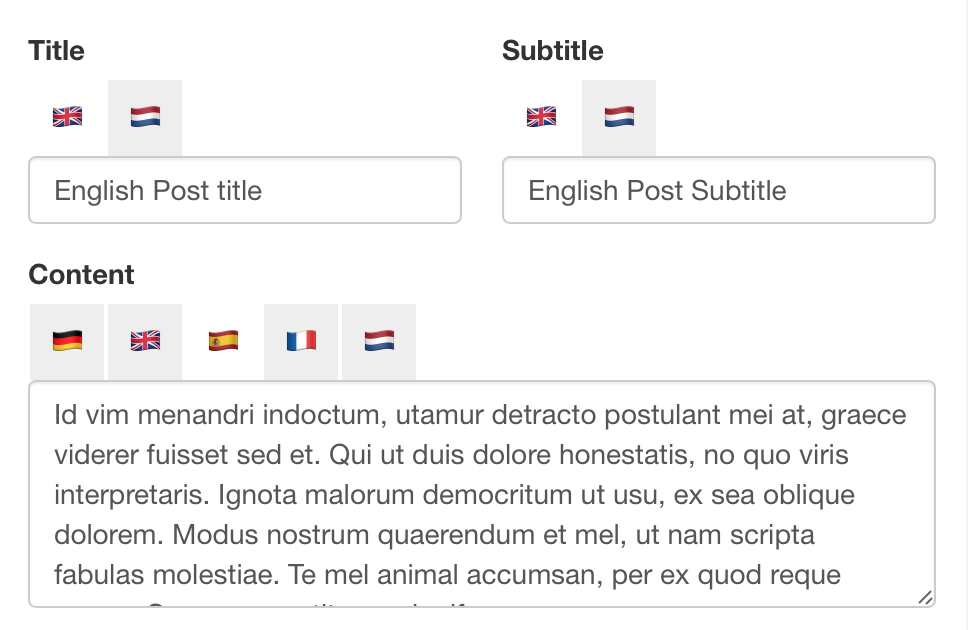
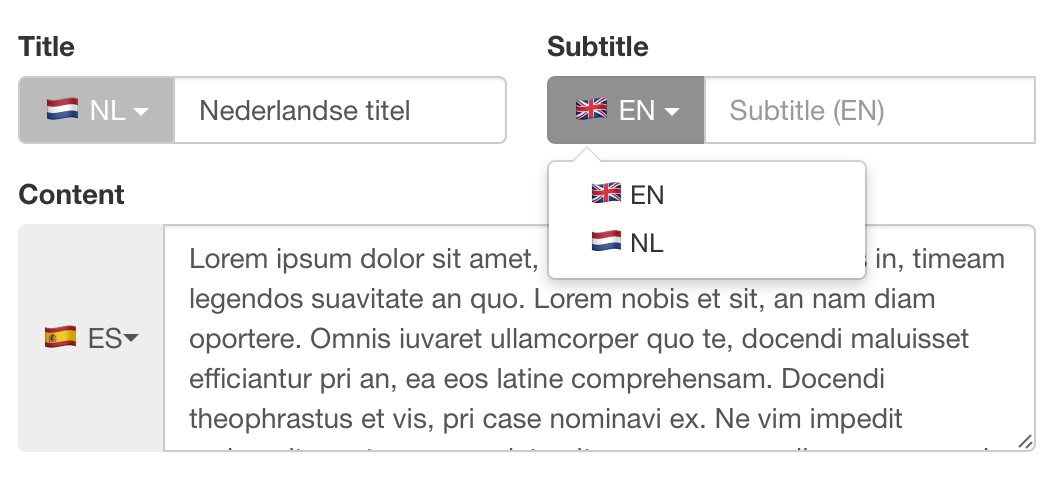
Update docs and README

diff --git a/README.md b/README.md
@@ -10,7 +10,7 @@
 - Supports Postgres container back-end
 - Probably works with other back-ends but has not been tested
 
-<img src="/screenshot.png?raw=true" width="484" height="315" alt="Trestle Mobility screenshot" />
+<img src="/screenshot.png?raw=true" width="529" height="242" alt="Trestle Mobility screenshot" />
 
 ## Usage
 
@@ -39,6 +39,22 @@ mobility_text_field :title, locales: %w(nl de fr)
 Quoting Mobility's README:
 
 > (Note however that Mobility will complain if you have I18n.enforce_available_locales set to true and you try accessing a locale not present in I18n.available_locales; set it to false if you want to allow any locale.)
+
+### Default language selection
+
+Trestle Mobility allows you to specify the language that is selected by default. This is possible on an application-wide basis but also per field.
+
+To set the default language that should be selected for all fields, add the following line to your Trestle initializer:
+
+```ruby
+config.mobility.selected = "nl"
+```
+
+Or specify it per field:
+
+```ruby
+mobility_text_field :subtitle, selected: "nl"
+```
 
 ## Installation
 
